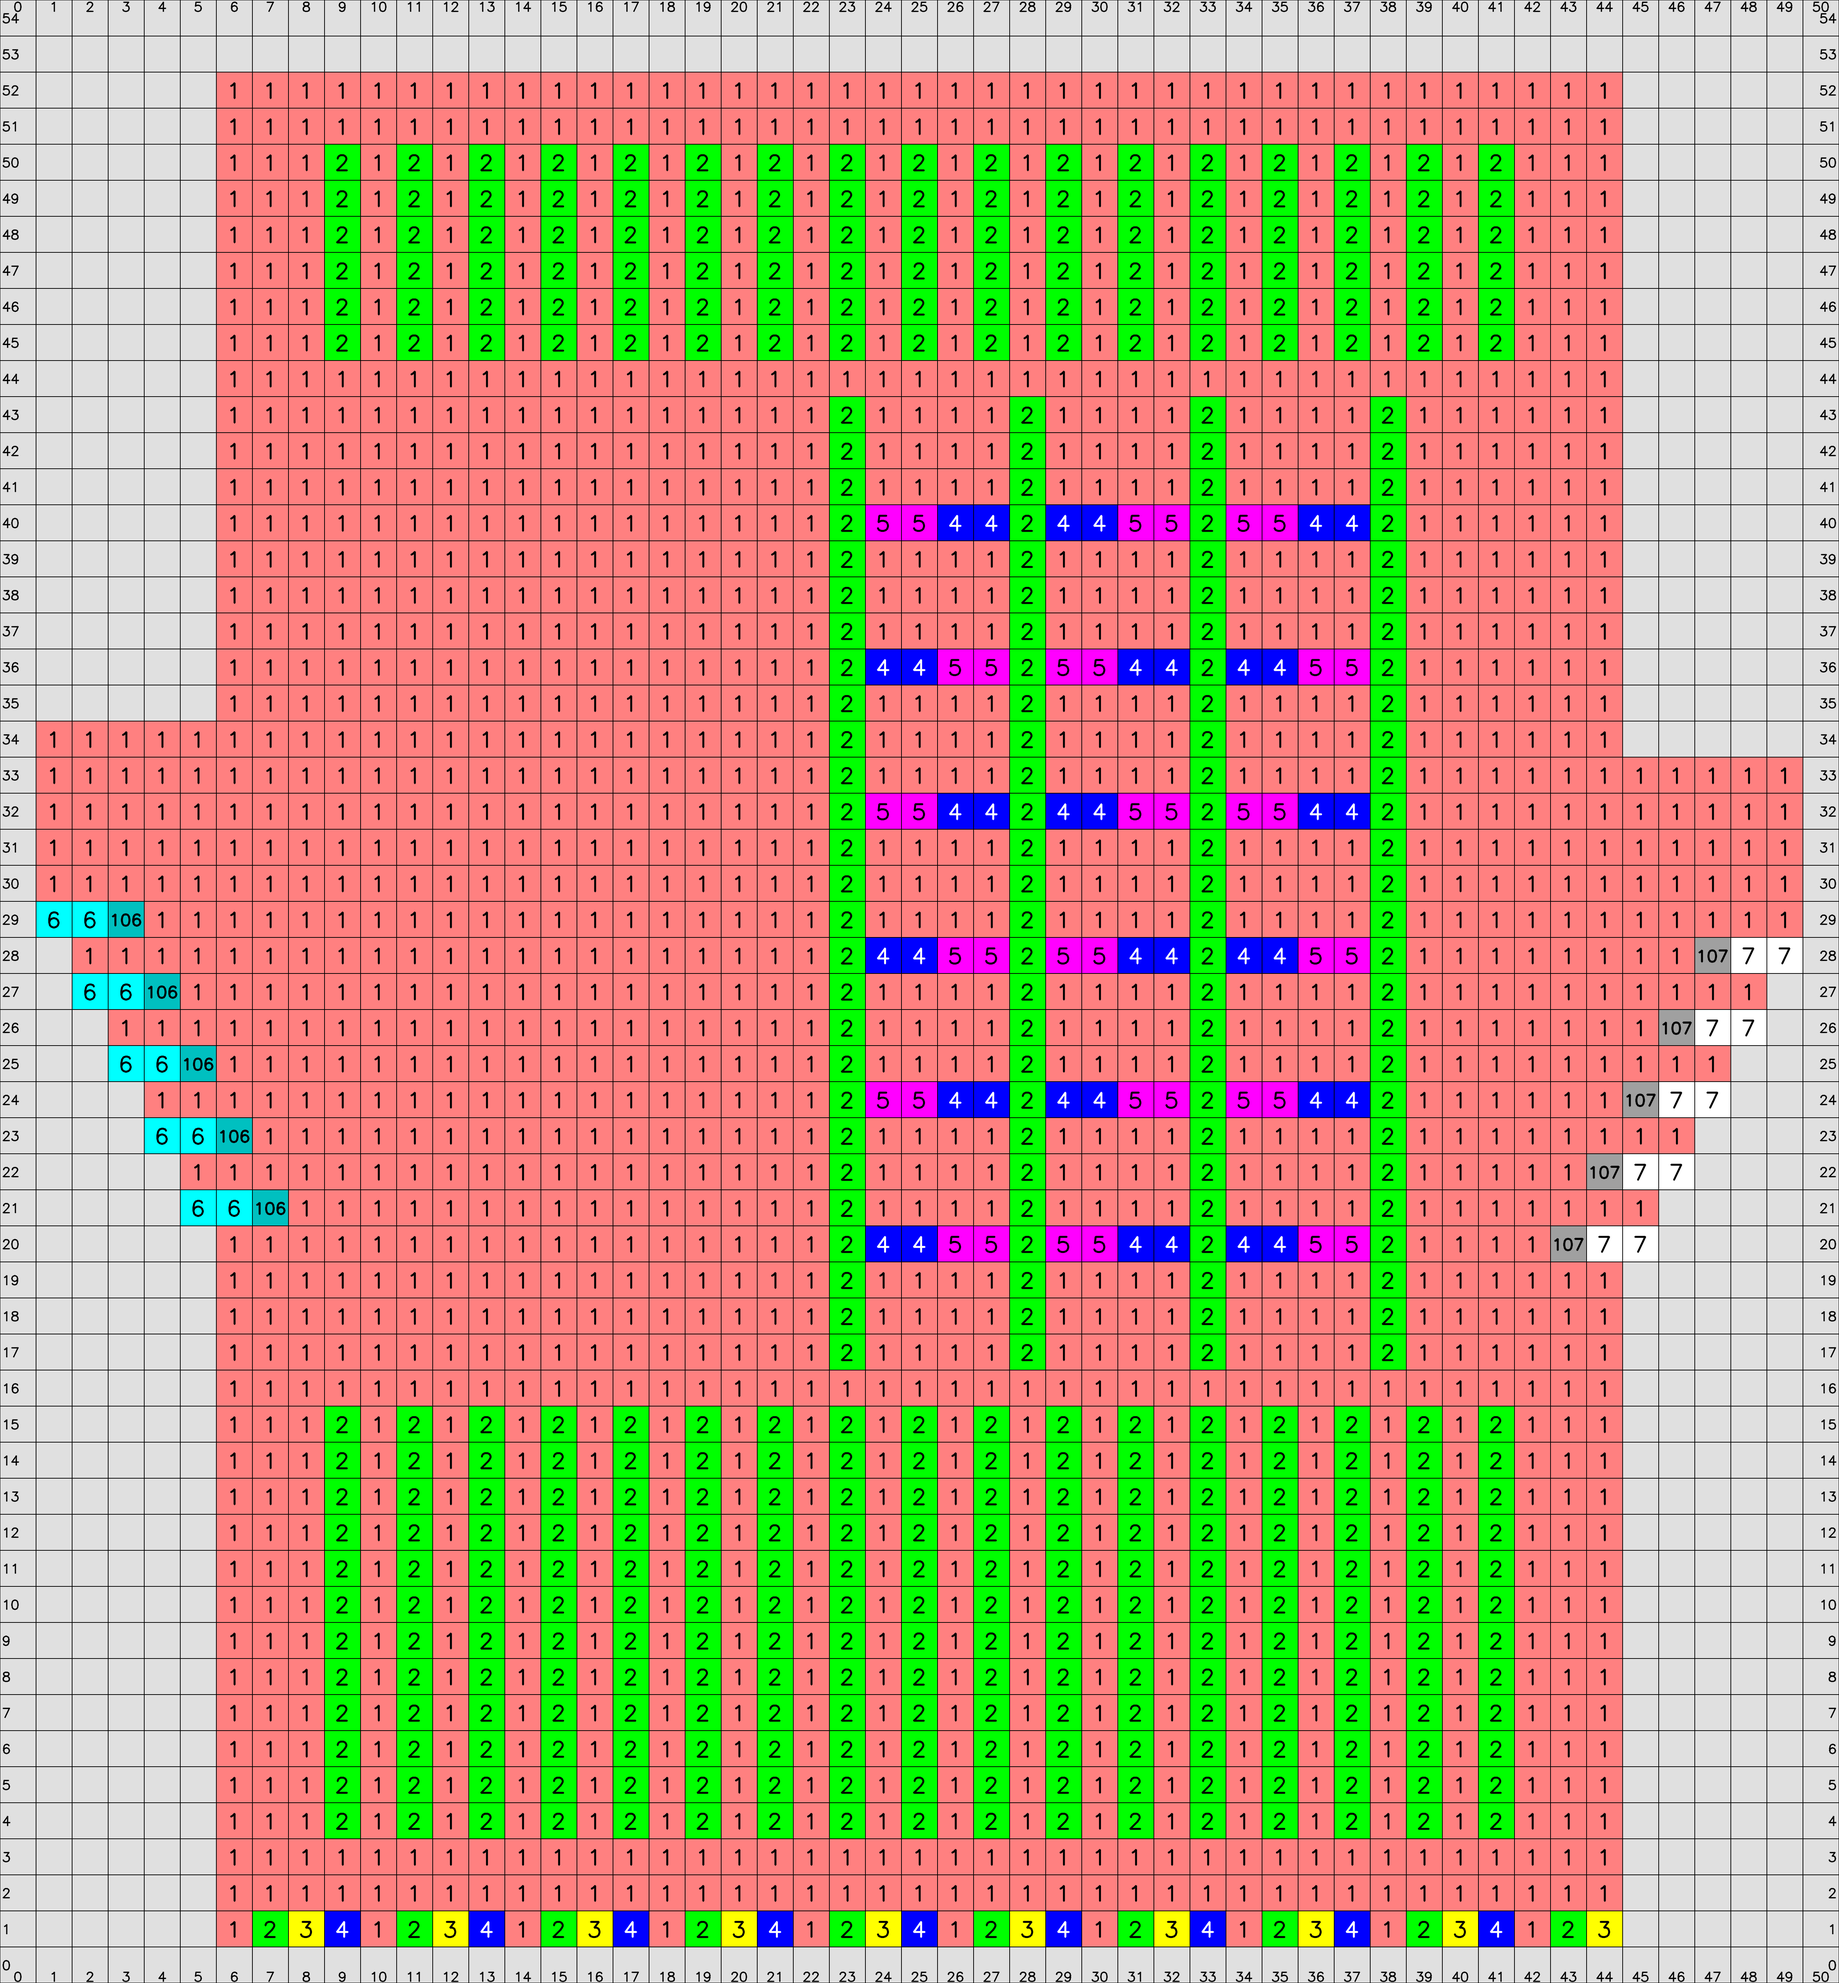
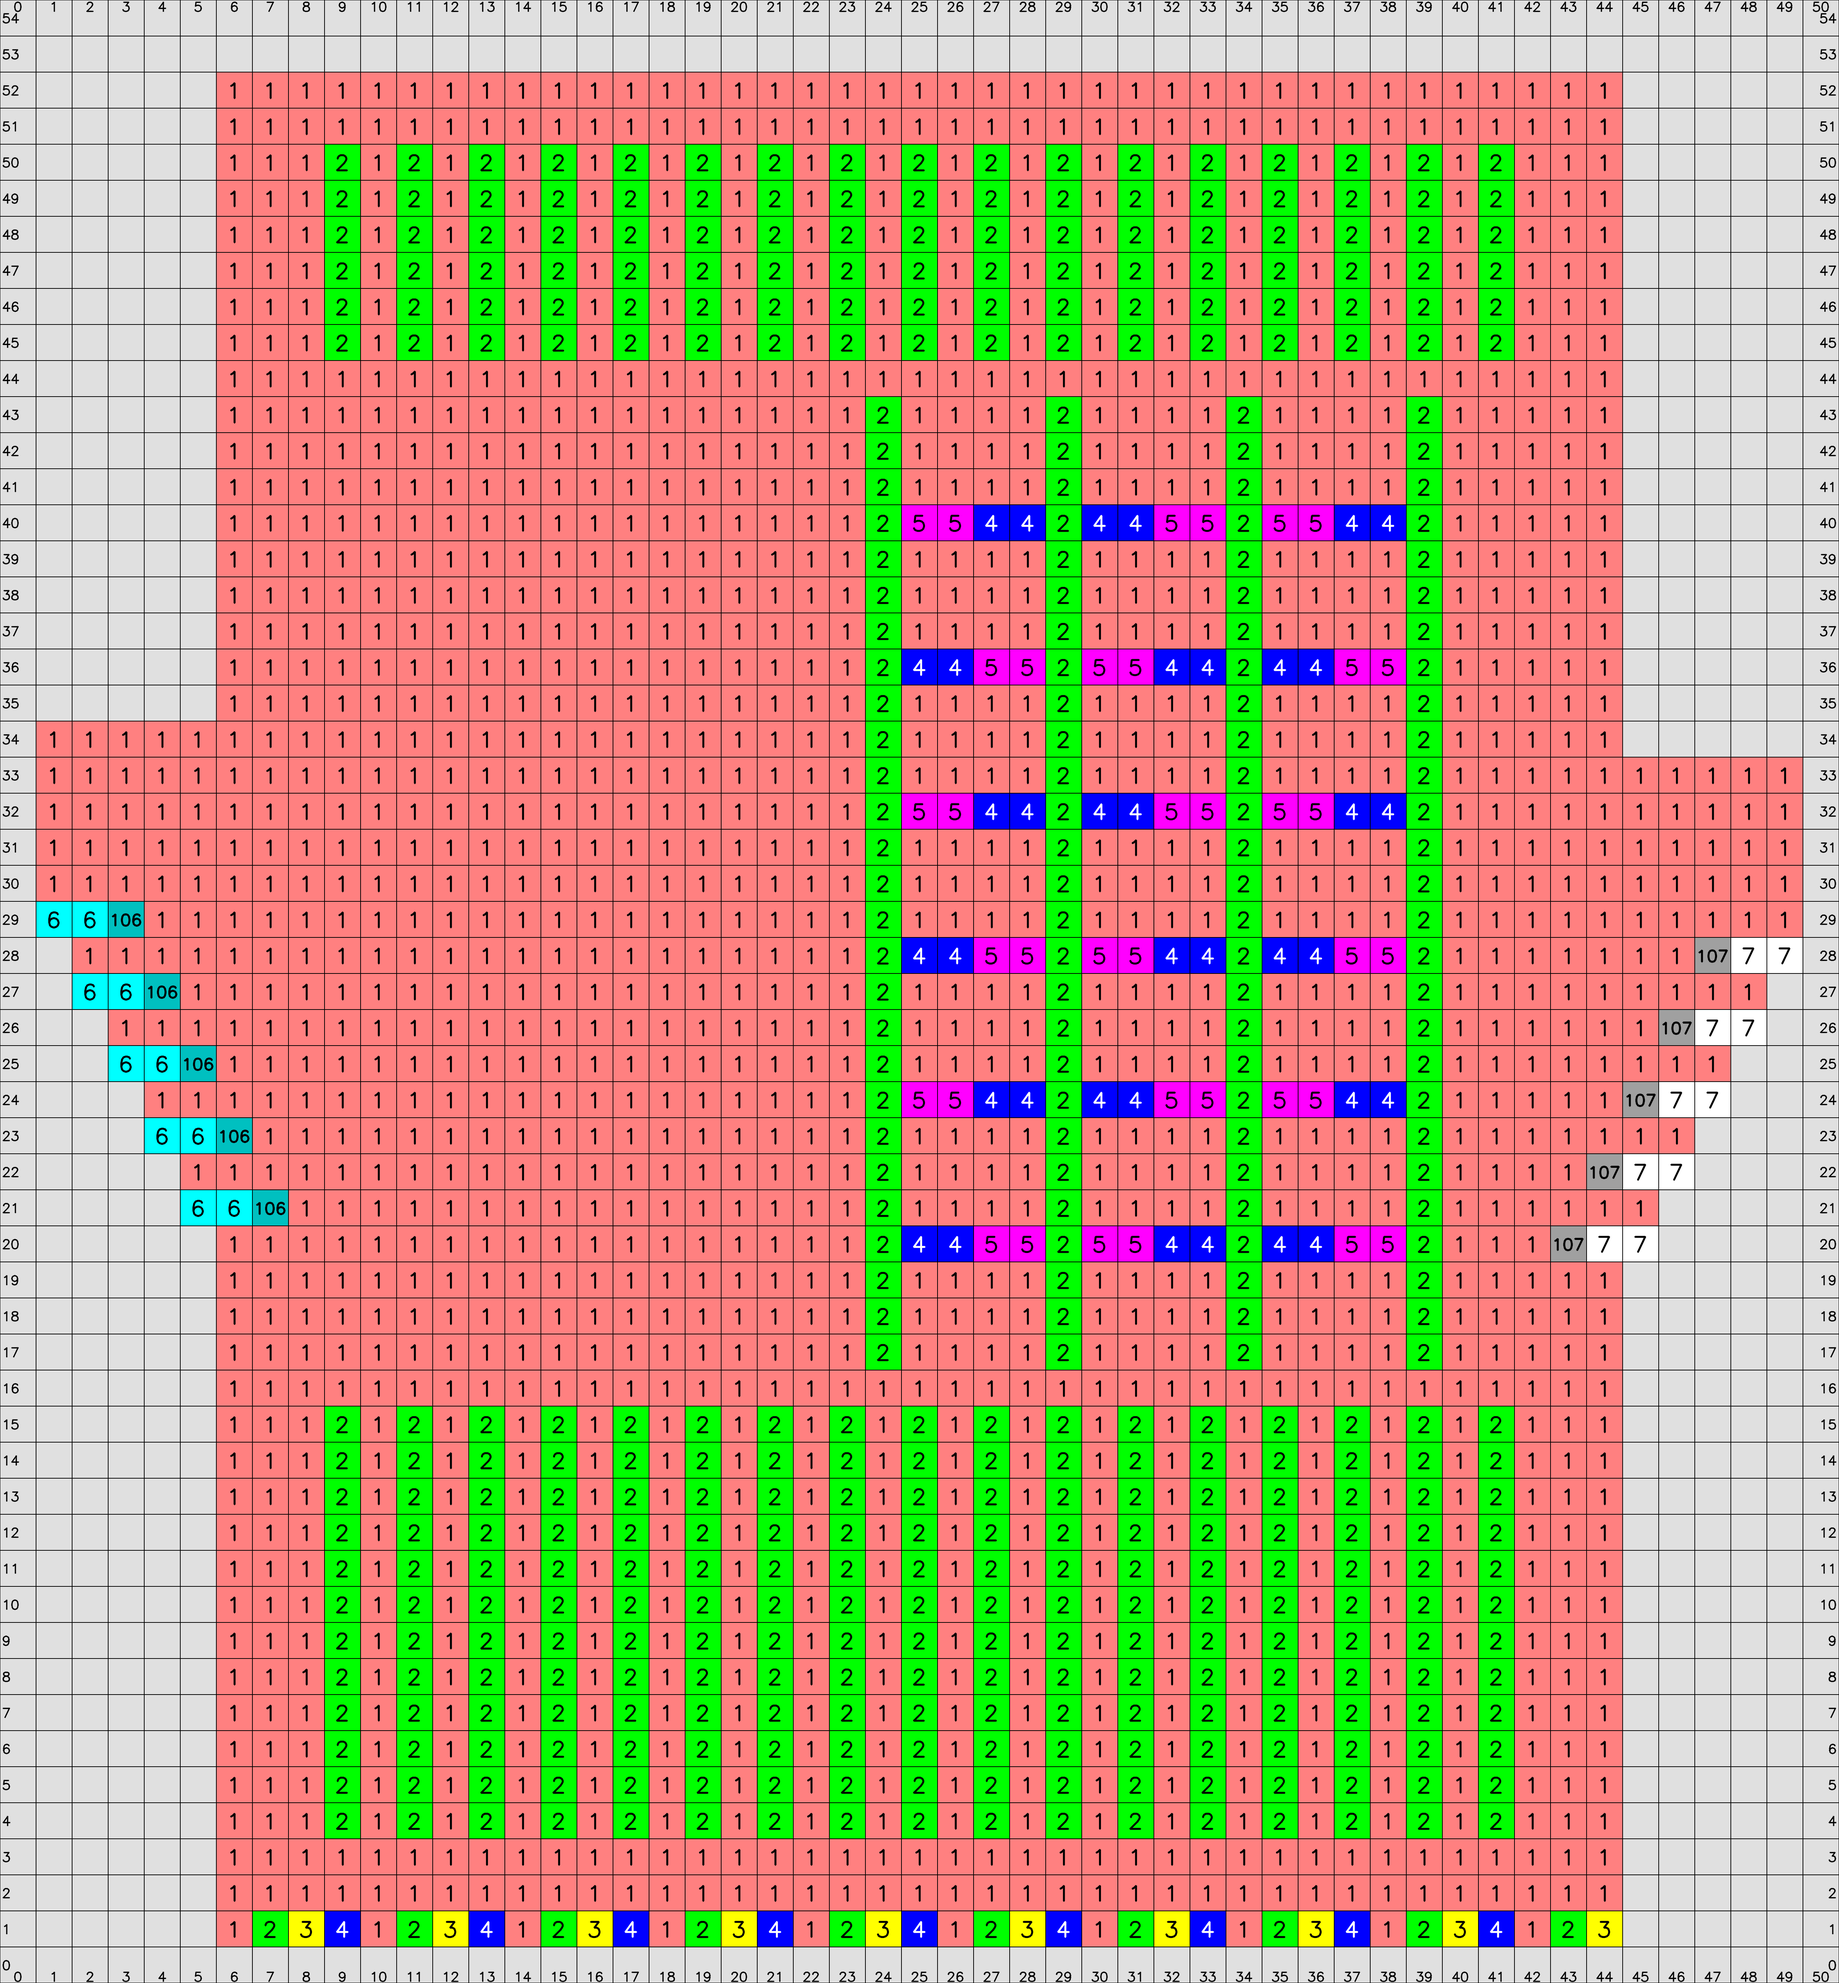
update

Changed region(s): [[0.4365, 0.1865, 0.8106, 0.7151]]

diff --git a/Tools/SOFTWARE/PythonScripts/ParametricPattern_KnitGlove/src/ParametricPattern_KnitGlove_19.py b/Tools/SOFTWARE/PythonScripts/ParametricPattern_KnitGlove/src/ParametricPattern_KnitGlove_19.py
@@ -527,7 +527,8 @@ for i in range(numCables):
 
 # === MIRROR PALM SECTION (LEFT HAND ONLY) ===
 if handedness == 'L':
-    left_inner_x = start_x + 3
+    #left_inner_x = start_x + 3
+    left_inner_x = start_x + 4
     right_inner_x = end_x - 4
     bottom_y = start_y - 1
     top_y = finger_end_y + 1
@@ -535,6 +536,8 @@ if handedness == 'L':
     mirrored = cv2.flip(region, 1)
     if mirrored.size > 0:
         image[top_y:bottom_y + 1, left_inner_x:right_inner_x + 1] = mirrored
+
+
 
 # === OUTPUT ===
 os.makedirs("images", exist_ok=True)
